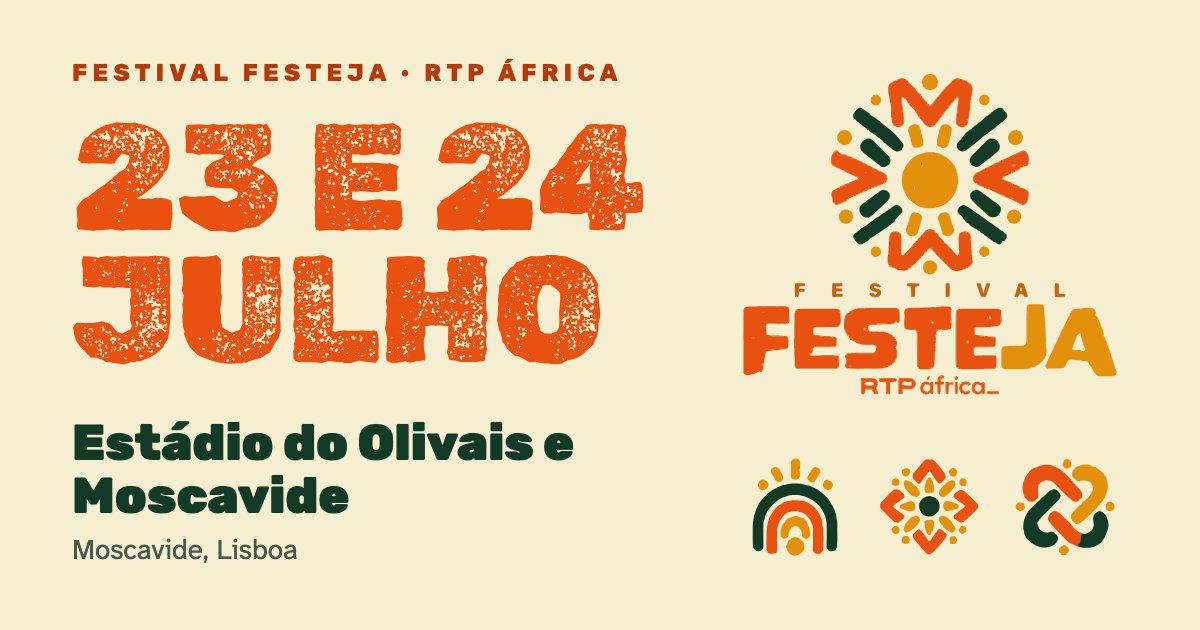
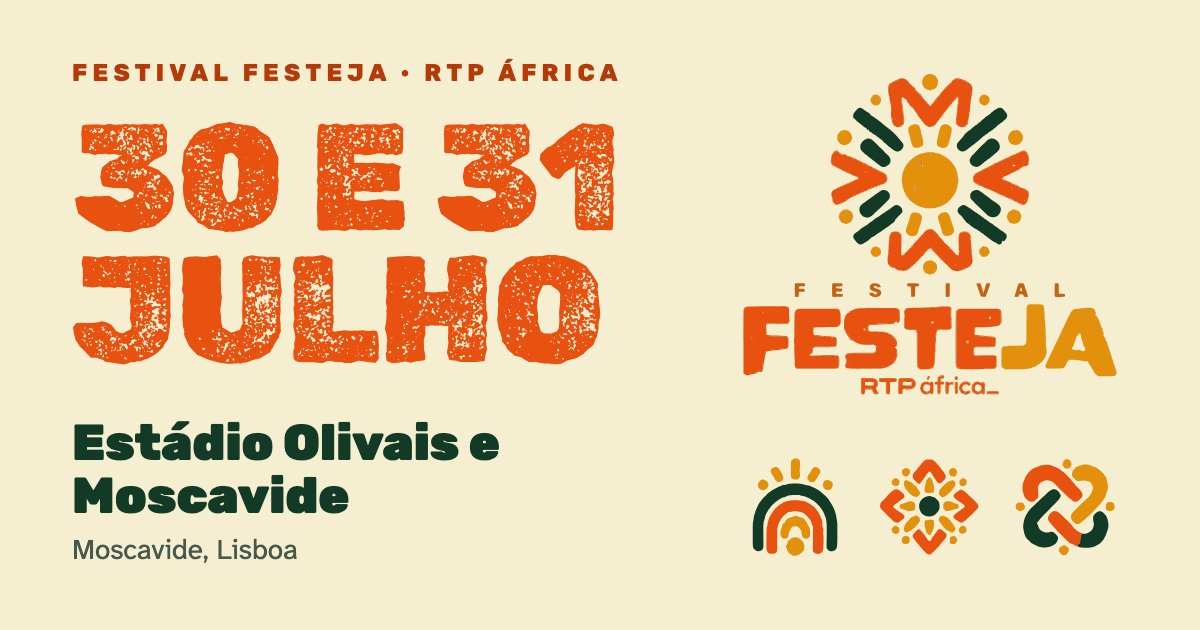
Sem evento em produção e cartaz da arte oficial
Em produção o event_id 2001 abria a bilheteira de outro evento da
Tickett. Sem TICKETT_EVENT_ID o site deixa de contactar a Tickett e
mostra "venda em breve". Cartaz com os 18 artistas da arte, datas
30 e 31 julho 2027 no Estádio Olivais e Moscavide, og.jpg regenerado.

Changed region(s): [[0.0617, 0.181, 0.555, 0.3921], [0.2158, 0.6635, 0.4933, 0.754]]

diff --git a/dev/og/og.html b/dev/og/og.html
@@ -125,8 +125,8 @@
   <main class="og" aria-label="Imagem de partilha">
     <div class="og__copy">
       <p class="og__eyebrow" data-slot="eyebrow">Festival Festeja · RTP África</p>
-      <p class="og__data" data-slot="data"><span data-slot="data-dias">23 E 24</span><span data-slot="data-mes">JULHO</span></p>
-      <p class="og__local" data-slot="local">Estádio do Olivais e Moscavide</p>
+      <p class="og__data" data-slot="data"><span data-slot="data-dias">30 E 31</span><span data-slot="data-mes">JULHO</span></p>
+      <p class="og__local" data-slot="local">Estádio Olivais e Moscavide</p>
       <p class="og__zona" data-slot="zona">Moscavide, Lisboa</p>
     </div>
 

diff --git a/app/Views/Components/SiteHeader.php b/app/Views/Components/SiteHeader.php
@@ -7,8 +7,11 @@
 use App\Helpers\Icon;
 use App\Helpers\Rotas;
 use App\Services\Content;
+use App\Services\TickettService;
 
 $active = $active ?? null;
+// Sem evento na Tickett, os botões de compra são só links para /bilhetes (sem abrir o checkout).
+$dataCompra = TickettService::temEvento(config('tickett')) ? ' data-checkout-open' : '';
 $festival = Content::get('festival');
 $alternativo = $alternativo ?? Rotas::trocaIdioma('/');
 $lang = idioma();
@@ -64,8 +67,8 @@ $seletor = static function (string $classe) use ($alternativo, $lang): string {
         <span class="site-header__cart-count">0</span>
         <span class="fj-visually-hidden"><?= e(t('carrinho.bilhetes')) ?></span>
       </a>
-      <a class="fj-btn fj-btn--primary site-header__buy" href="<?= e(Rotas::url('bilhetes')) ?>" data-checkout-open><?= e(t('botao.comprar_bilhetes')) ?></a>
-      <a class="fj-btn fj-btn--primary site-header__buy-compact" href="<?= e(Rotas::url('bilhetes')) ?>" data-checkout-open><?= e(t('nav.bilhetes')) ?></a>
+      <a class="fj-btn fj-btn--primary site-header__buy" href="<?= e(Rotas::url('bilhetes')) ?>"<?= $dataCompra ?>><?= e(t('botao.comprar_bilhetes')) ?></a>
+      <a class="fj-btn fj-btn--primary site-header__buy-compact" href="<?= e(Rotas::url('bilhetes')) ?>"<?= $dataCompra ?>><?= e(t('nav.bilhetes')) ?></a>
       <button type="button" class="site-header__menu-btn" aria-expanded="false" aria-controls="menu-movel" data-menu-toggle>
         <?= Icon::svg('menu', ['class' => 'icon-menu']) ?>
         <?= Icon::svg('x', ['class' => 'icon-x']) ?>
@@ -83,7 +86,7 @@ $seletor = static function (string $classe) use ($alternativo, $lang): string {
       </ul>
     </nav>
     <div class="mobile-menu__foot">
-      <a class="fj-btn fj-btn--primary fj-btn--lg fj-btn--block" href="<?= e(Rotas::url('bilhetes')) ?>" data-checkout-open><?= e(t('botao.comprar_bilhetes')) ?></a>
+      <a class="fj-btn fj-btn--primary fj-btn--lg fj-btn--block" href="<?= e(Rotas::url('bilhetes')) ?>"<?= $dataCompra ?>><?= e(t('botao.comprar_bilhetes')) ?></a>
       <?= $seletor('mobile-menu__idioma') ?>
       <ul class="mobile-menu__social" role="list">
         <li><a href="<?= e($festival['redes']['instagram'] ?? '#') ?>" rel="noopener"><?= e(t('social.instagram_festival')) ?></a></li>

diff --git a/app/Services/TickettService.php b/app/Services/TickettService.php
@@ -33,6 +33,14 @@ final class TickettService
     }
 
     /**
+     * true se há event_id (TICKETT_EVENT_ID em produção). Sem ele não há evento para vender: nada vai à Tickett.
+     */
+    public static function temEvento(array $cfg): bool
+    {
+        return (int) ($cfg['event_id'] ?? 0) > 0;
+    }
+
+    /**
      * @return array{ok: bool, stale: bool, event: ?array, products: array}
      */
     public function getCatalog(): array
@@ -49,6 +57,10 @@ final class TickettService
      */
     private function lerCatalogo(): array
     {
+        if (!self::temEvento($this->cfg)) {
+            return $this->semEvento();
+        }
+
         $cachePath = $this->cachePath();
         $cached = $this->readCache($cachePath);
         $ttl = (int) ($this->cfg['cache_ttl'] ?? 300);
@@ -73,9 +85,14 @@ final class TickettService
     /**
      * URL do checkout geral do evento. Com $productId, a URL do bilhete (?produto=) se estiver no catálogo.
      * O idioma (predefinido: o da página) vai como ?l= da Tickett (pt_pt ou en_us), ver comIdioma().
+     * Sem event_id devolve null: não há checkout para apontar.
      */
-    public function checkoutUrl(?int $productId = null, ?string $idioma = null): string
+    public function checkoutUrl(?int $productId = null, ?string $idioma = null): ?string
     {
+        if (!self::temEvento($this->cfg)) {
+            return null;
+        }
+
         $produto = $this->produto($productId);
         $url = $produto !== null ? $produto['checkout_url'] : $this->checkoutPageUrl();
 
@@ -192,6 +209,20 @@ final class TickettService
     private function result(bool $ok, bool $stale, ?array $event, array $products): array
     {
         return ['ok' => $ok, 'stale' => $stale, 'event' => $event, 'products' => $products];
+    }
+
+    /**
+     * Sem event_id: catálogo vazio e venda por abrir (sem data). Não é uma falha, por isso ok é true e não há pedido HTTP.
+     */
+    private function semEvento(): array
+    {
+        return $this->result(true, false, [
+            'id' => null,
+            'name' => null,
+            'currency' => 'EUR',
+            'checkout_url' => null,
+            'sale' => ['status' => 'upcoming', 'opens_at' => null],
+        ], []);
     }
 
     /**

diff --git a/app/Views/Components/TicketGrid.php b/app/Views/Components/TicketGrid.php
@@ -1,12 +1,14 @@
 <?php
 // Grelha de bilhetes a partir do catálogo da Tickett (resultado de TickettService::getCatalog()).
 // Props: catalog (array com ok, stale, event, products), checkoutUrl (checkout geral do evento).
-// Mensagens, por esta ordem: falha da Tickett sem cache (ok = false); venda por abrir (upcoming); venda terminada (closed);
-// sem produtos à venda. Só com a venda aberta e produtos é que mostra a grelha. Cache antiga (stale) mostra-se sem aviso.
+// Mensagens, por esta ordem: sem TICKETT_EVENT_ID (venda em breve, com link para o Instagram); falha da Tickett sem cache
+// (ok = false); venda por abrir (upcoming); venda terminada (closed); sem produtos à venda. Só com a venda aberta e produtos
+// é que mostra a grelha. Cache antiga (stale) mostra-se sem aviso.
 
 use App\Helpers\Component;
 use App\Helpers\Format;
 use App\Helpers\Rotas;
+use App\Services\Content;
 use App\Services\TickettService;
 
 $catalog = $catalog ?? ['ok' => false, 'stale' => false, 'event' => null, 'products' => []];
@@ -20,7 +22,11 @@ if (!empty($catalog['stale'])) {
 
 $venda = is_array($event) ? ($event['sale'] ?? []) : [];
 $estadoVenda = (string) ($venda['status'] ?? '');
-if (empty($catalog['ok'])) {
+$semEvento = !TickettService::temEvento(config('tickett'));
+$instagram = Content::get('festival')['redes']['instagram'] ?? null;
+if ($semEvento) {
+    $mensagem = t('bilhetes.em_breve');
+} elseif (empty($catalog['ok'])) {
     $mensagem = t('bilhetes.bilheteira_sem_resposta');
 } elseif ($estadoVenda === 'upcoming') {
     $mensagem = !empty($venda['opens_at'])
@@ -40,6 +46,13 @@ if (empty($catalog['ok'])) {
   <?= Component::render('TicketCard', ['product' => $product, 'checkoutUrl' => $checkoutUrl]) ?>
   <?php endforeach; ?>
 </ul>
+<?php elseif ($semEvento): ?>
+<div class="ticket-empty">
+  <p class="ticket-empty__text"><?= e($mensagem) ?></p>
+  <?php if ($instagram !== null): ?>
+  <a class="fj-btn fj-btn--secondary" href="<?= e($instagram) ?>" rel="noopener"><?= e(t('footer.instagram')) ?></a>
+  <?php endif; ?>
+</div>
 <?php else: ?>
 <div class="ticket-empty">
   <p class="ticket-empty__text"><?= e($mensagem) ?></p>

diff --git a/app/Helpers/Seo.php b/app/Helpers/Seo.php
@@ -224,11 +224,18 @@ final class Seo
         $minimo = self::precoMinimo($catalog);
         $bilhetes = self::abs('/bilhetes');
         $taxa = $minimo !== null && !(new TickettService(config('tickett')))->taxaIncluida() ? ' + taxa de serviço' : '';
-        $linhas[] = $minimo !== null
-            ? '- Bilhetes: desde ' . Format::price($minimo) . $taxa . ', em ' . $bilhetes
-            : '- Bilhetes: ' . $bilhetes;
+        if ($minimo !== null) {
+            $linhas[] = '- Bilhetes: desde ' . Format::price($minimo) . $taxa . ', em ' . $bilhetes;
+        } elseif (TickettService::temEvento(config('tickett'))) {
+            $linhas[] = '- Bilhetes: ' . $bilhetes;
+        } else {
+            $linhas[] = '- Bilhetes: venda em breve, em ' . $bilhetes;
+        }
+        // Sem evento não há checkout para indicar (checkoutUrl() devolve null).
         $checkout = $catalog['event']['checkout_url'] ?? (new TickettService(config('tickett')))->checkoutUrl();
-        $linhas[] = '- Onde comprar: Tickett, em ' . $checkout;
+        if ($checkout !== null) {
+            $linhas[] = '- Onde comprar: Tickett, em ' . $checkout;
+        }
 
         $linhas[] = '';
         $linhas[] = '## Cartaz';

diff --git a/config/site.php b/config/site.php
@@ -4,6 +4,7 @@ declare(strict_types=1);
 
 // Na Vercel, o runtime define VERCEL. Sem variáveis de ambiente, o site corre em produção contra a Tickett real.
 $naVercel = getenv('VERCEL') !== false;
+$producao = $naVercel || getenv('SITE_ENV') === 'prod';
 
 $config = [
   'env' => $naVercel ? 'prod' : 'dev',                    // 'prod' em produção
@@ -12,7 +13,9 @@ $config = [
   'tickett' => [
     // Checkout da Tickett tal como está publicado (não é alterado). O site faz de proxy em /checkout.
     'base' => $naVercel ? 'https://checkout.lebillet.eu' : 'http://127.0.0.1:8081',   // produção: https://checkout.lebillet.eu
-    'event_id' => 2001,
+    // 2001 é só do simulador (dev). Em produção não há evento por defeito: na Tickett real o 2001 é outro evento.
+    // Sem TICKETT_EVENT_ID (dígitos) o site não vende: mostra "venda em breve" e não contacta a Tickett.
+    'event_id' => $producao ? null : 2001,
     'cache_ttl' => 300,
     'timeout' => 3,
   ],

diff --git a/app/Views/Components/HomeClose.php b/app/Views/Components/HomeClose.php
@@ -14,7 +14,7 @@ $eyebrow = (string) ($eyebrow ?? '');
   <div class="wrap home-close__inner">
     <p class="fj-eyebrow home-close__eyebrow"><?= e($eyebrow) ?></p>
     <h2 id="fecho-titulo" class="home-close__date" data-mov="revelar" data-mov-estilo="escala"><?= e($data) ?></h2>
-    <a class="fj-btn fj-btn--lg btn-on-ochre" href="<?= e(Rotas::url('bilhetes')) ?>" data-checkout-open><?= e(t('botao.comprar_bilhetes')) ?></a>
+    <a class="fj-btn fj-btn--lg btn-on-ochre" href="<?= e(Rotas::url('bilhetes')) ?>"<?= \App\Services\TickettService::temEvento(config('tickett')) ? ' data-checkout-open' : '' ?>><?= e(t('botao.comprar_bilhetes')) ?></a>
     <?= Component::render('SymbolGrid', ['simbolos' => [7, 20, 21, 7, 20, 21], 'size' => 64, 'class' => 'home-close__simbolos', 'mov' => true]) ?>
   </div>
 </section>

diff --git a/public/index.php b/public/index.php
@@ -147,6 +147,10 @@ function notFound(): never
 // Fica antes da verificação de método, porque o relay aceita POST, e antes do redirect de barra final.
 $proxyUri = parse_url($_SERVER['REQUEST_URI'] ?? '/', PHP_URL_PATH) ?: '/';
 if ($proxyUri === '/checkout' || str_starts_with($proxyUri, '/checkout/relay/')) {
+    // Sem event_id (TICKETT_EVENT_ID por definir) não há checkout: 404, sem contactar a Tickett.
+    if (!\App\Services\TickettService::temEvento(config('tickett'))) {
+        notFound();
+    }
     $proxy = new \App\Services\CheckoutProxy(config('tickett'));
     $metodoProxy = $_SERVER['REQUEST_METHOD'] ?? 'GET';
     $httpsProxy = ($_SERVER['HTTPS'] ?? 'off') !== 'off';

diff --git a/app/Views/Components/HomeHero.php b/app/Views/Components/HomeHero.php
@@ -53,7 +53,7 @@ if ($minPrice !== null) {
         <p class="hero__lead"><?= e($festival['chamada']) ?></p>
 
         <div class="btn-row hero__actions">
-          <a class="fj-btn fj-btn--primary fj-btn--lg" href="<?= e(Rotas::url('bilhetes')) ?>" data-checkout-open><?= e(t('botao.comprar_bilhetes')) ?></a>
+          <a class="fj-btn fj-btn--primary fj-btn--lg" href="<?= e(Rotas::url('bilhetes')) ?>"<?= \App\Services\TickettService::temEvento(config('tickett')) ? ' data-checkout-open' : '' ?>><?= e(t('botao.comprar_bilhetes')) ?></a>
           <a class="fj-btn fj-btn--secondary fj-btn--lg hero__cartaz" href="#cartaz"><?= e(t('botao.ver_cartaz')) ?></a>
         </div>
 

diff --git a/app/Views/Components/StickyBuyBar.php b/app/Views/Components/StickyBuyBar.php
@@ -15,5 +15,5 @@ $taxaIncluida = $servico->taxaIncluida();
     <strong><?= $minPrice !== null ? '<span class="fj-buybar__de">' . e(t('buybar.desde')) . '</span> ' . e(Format::price($minPrice)) : e(t('buybar.bilhetes')) ?></strong>
     <span><?= e($taxaIncluida ? t('taxa.incluidas') : t('taxa.acresce_curta')) ?></span>
   </p>
-  <a class="fj-btn fj-btn--primary" href="<?= e(Rotas::url('bilhetes')) ?>" data-checkout-open><?= e(t('botao.comprar_bilhetes')) ?></a>
+  <a class="fj-btn fj-btn--primary" href="<?= e(Rotas::url('bilhetes')) ?>"<?= TickettService::temEvento(config('tickett')) ? ' data-checkout-open' : '' ?>><?= e(t('botao.comprar_bilhetes')) ?></a>
 </div>

diff --git a/app/Lang/en.php b/app/Lang/en.php
@@ -18,6 +18,7 @@ return [
     'bilhetes.badge_esgotado' => 'Sold out',
     'bilhetes.badge_ultimos' => 'Last tickets',
     'bilhetes.bilheteira_sem_resposta' => 'The ticket office is not responding. Buy directly on the ticket office page.',
+    'bilhetes.em_breve' => 'Ticket sales open soon. Follow us on Instagram to hear first.',
     'bilhetes.indisponiveis' => 'Tickets are unavailable at the moment. Please try the ticket office.',
     'bilhetes.lead' => 'Choose your ticket and pay without leaving the site.',
     'bilhetes.pagamento_texto' => 'You pay at checkout, using the payment methods the Tickett ticket office accepts at that time.',

diff --git a/app/Lang/pt.php b/app/Lang/pt.php
@@ -18,6 +18,7 @@ return [
     'bilhetes.badge_esgotado' => 'Esgotado',
     'bilhetes.badge_ultimos' => 'Últimos bilhetes',
     'bilhetes.bilheteira_sem_resposta' => 'A bilheteira não respondeu. Compra diretamente na página da bilheteira.',
+    'bilhetes.em_breve' => 'A venda de bilhetes abre em breve. Segue-nos no Instagram para saberes primeiro.',
     'bilhetes.indisponiveis' => 'Os bilhetes estão indisponíveis de momento. Tenta na bilheteira.',
     'bilhetes.lead' => 'Escolhe o teu bilhete e paga sem sair do site.',
     'bilhetes.pagamento_texto' => 'Pagas no checkout, com os métodos que a bilheteira Tickett aceita nesse momento.',
